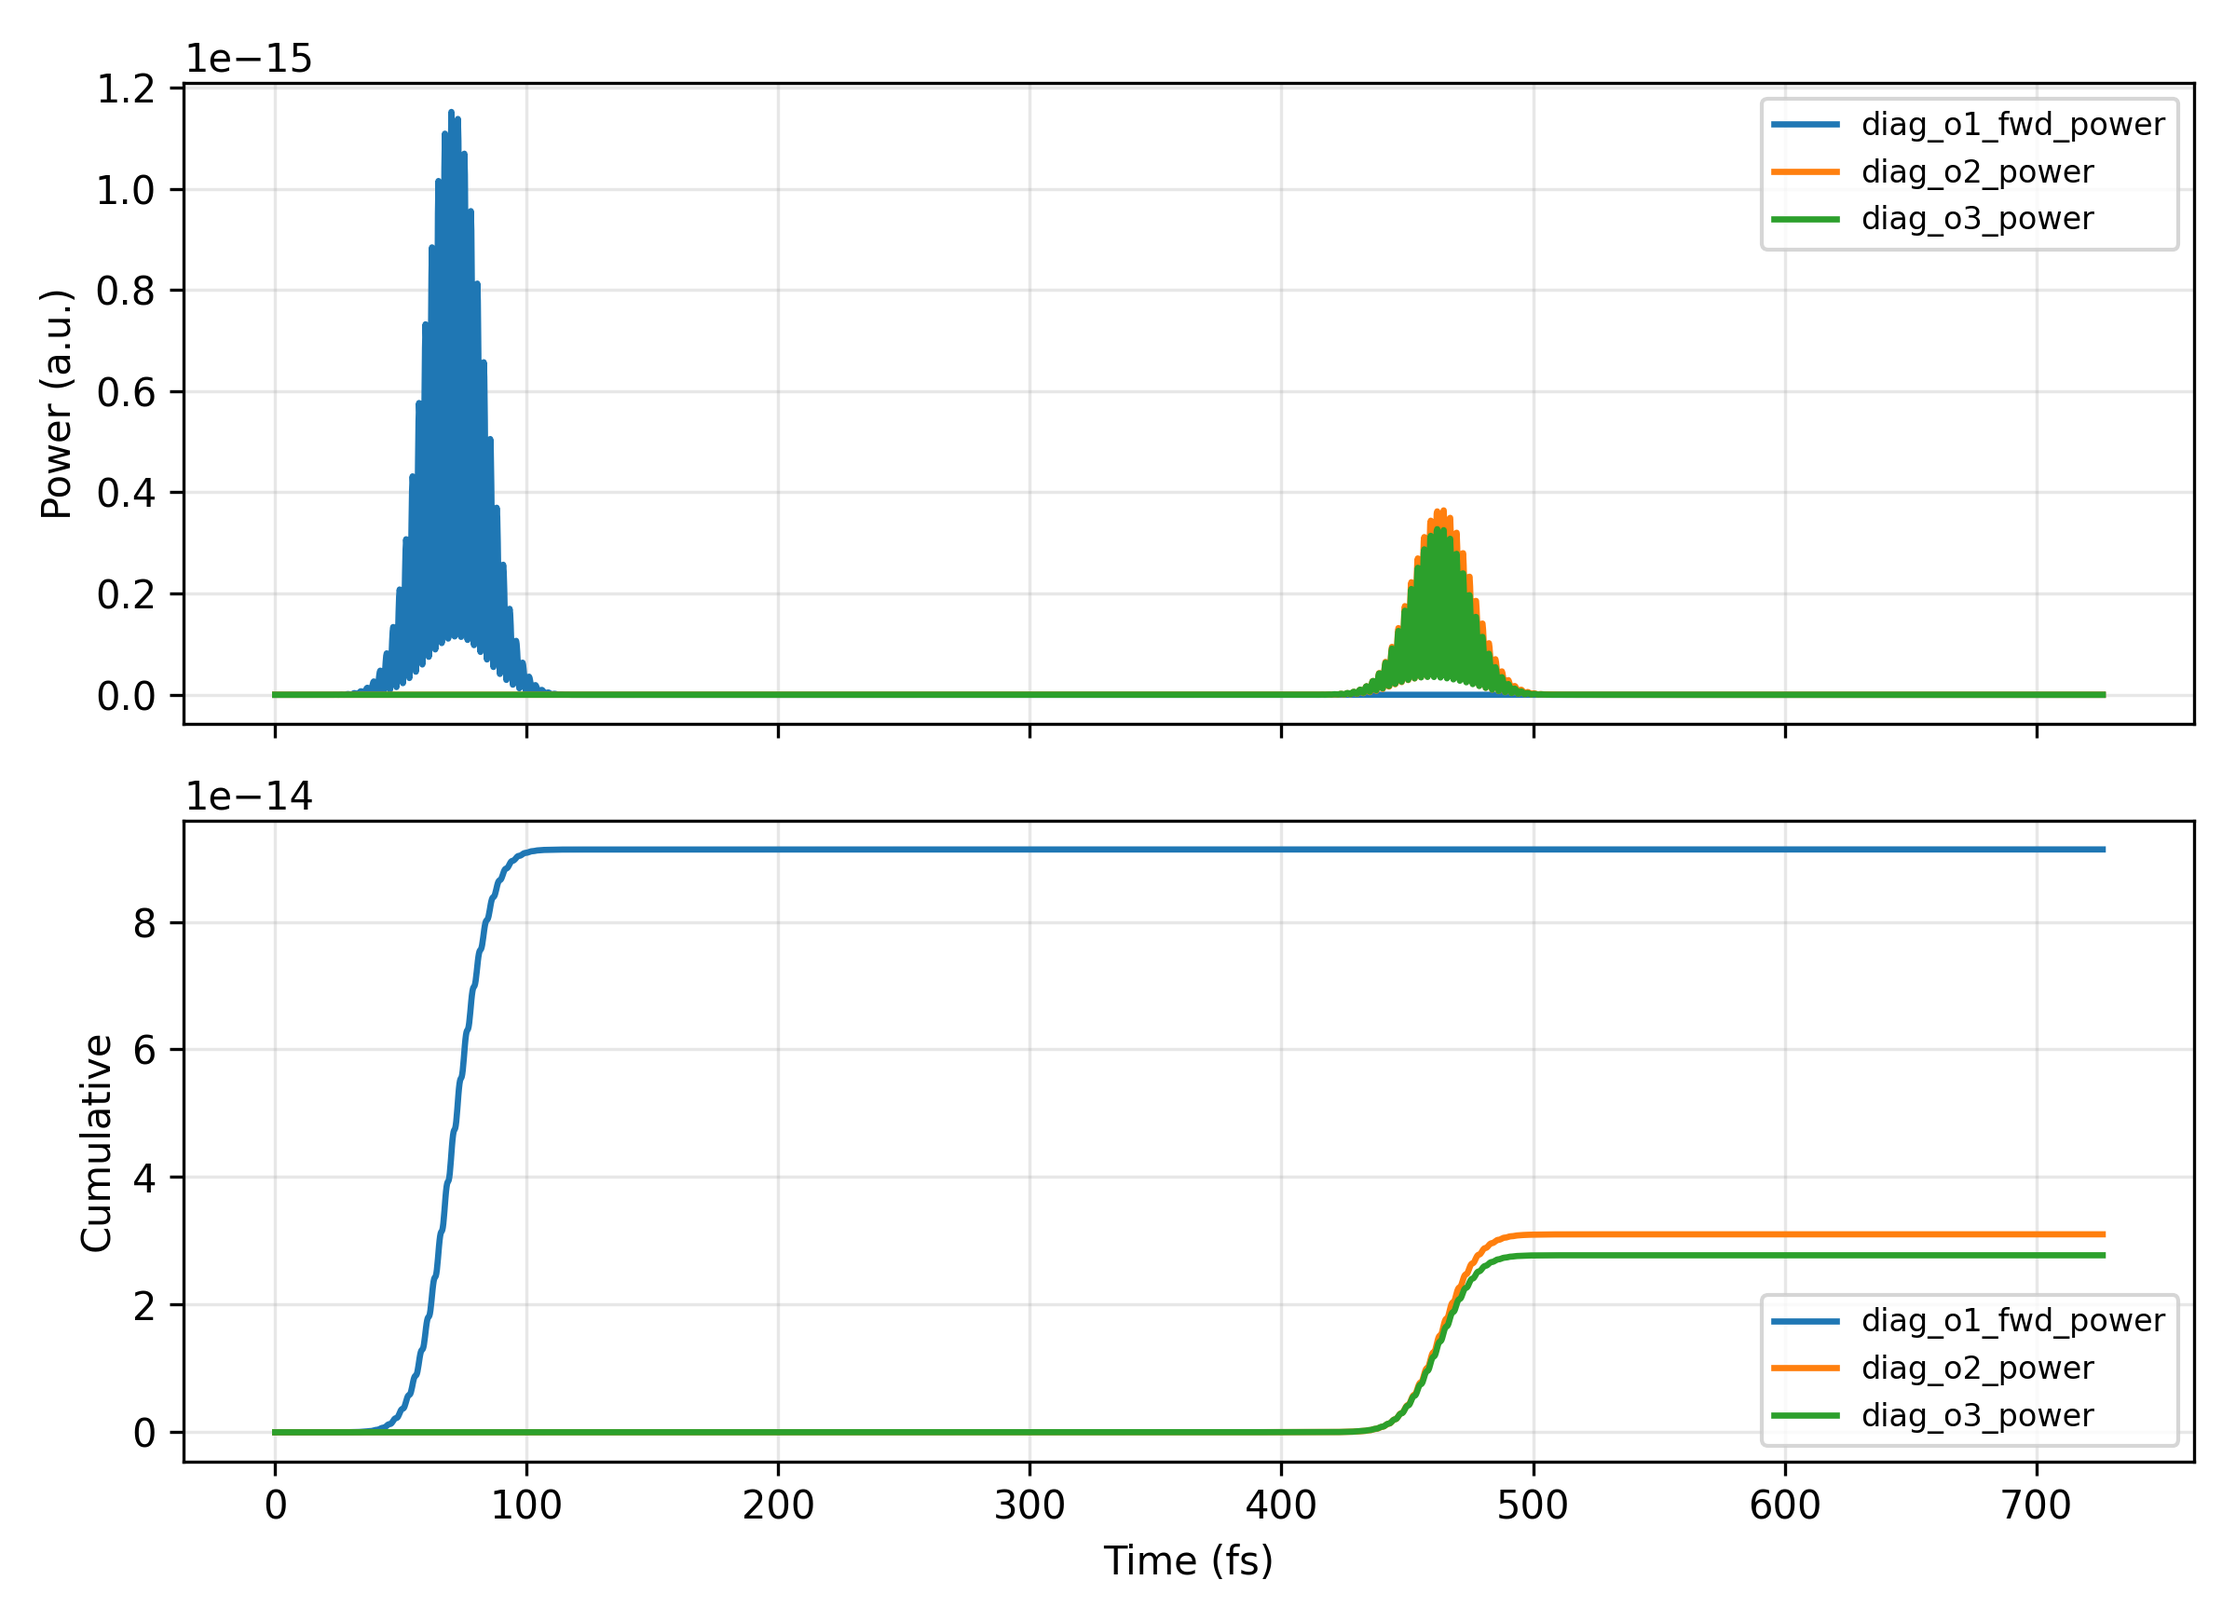
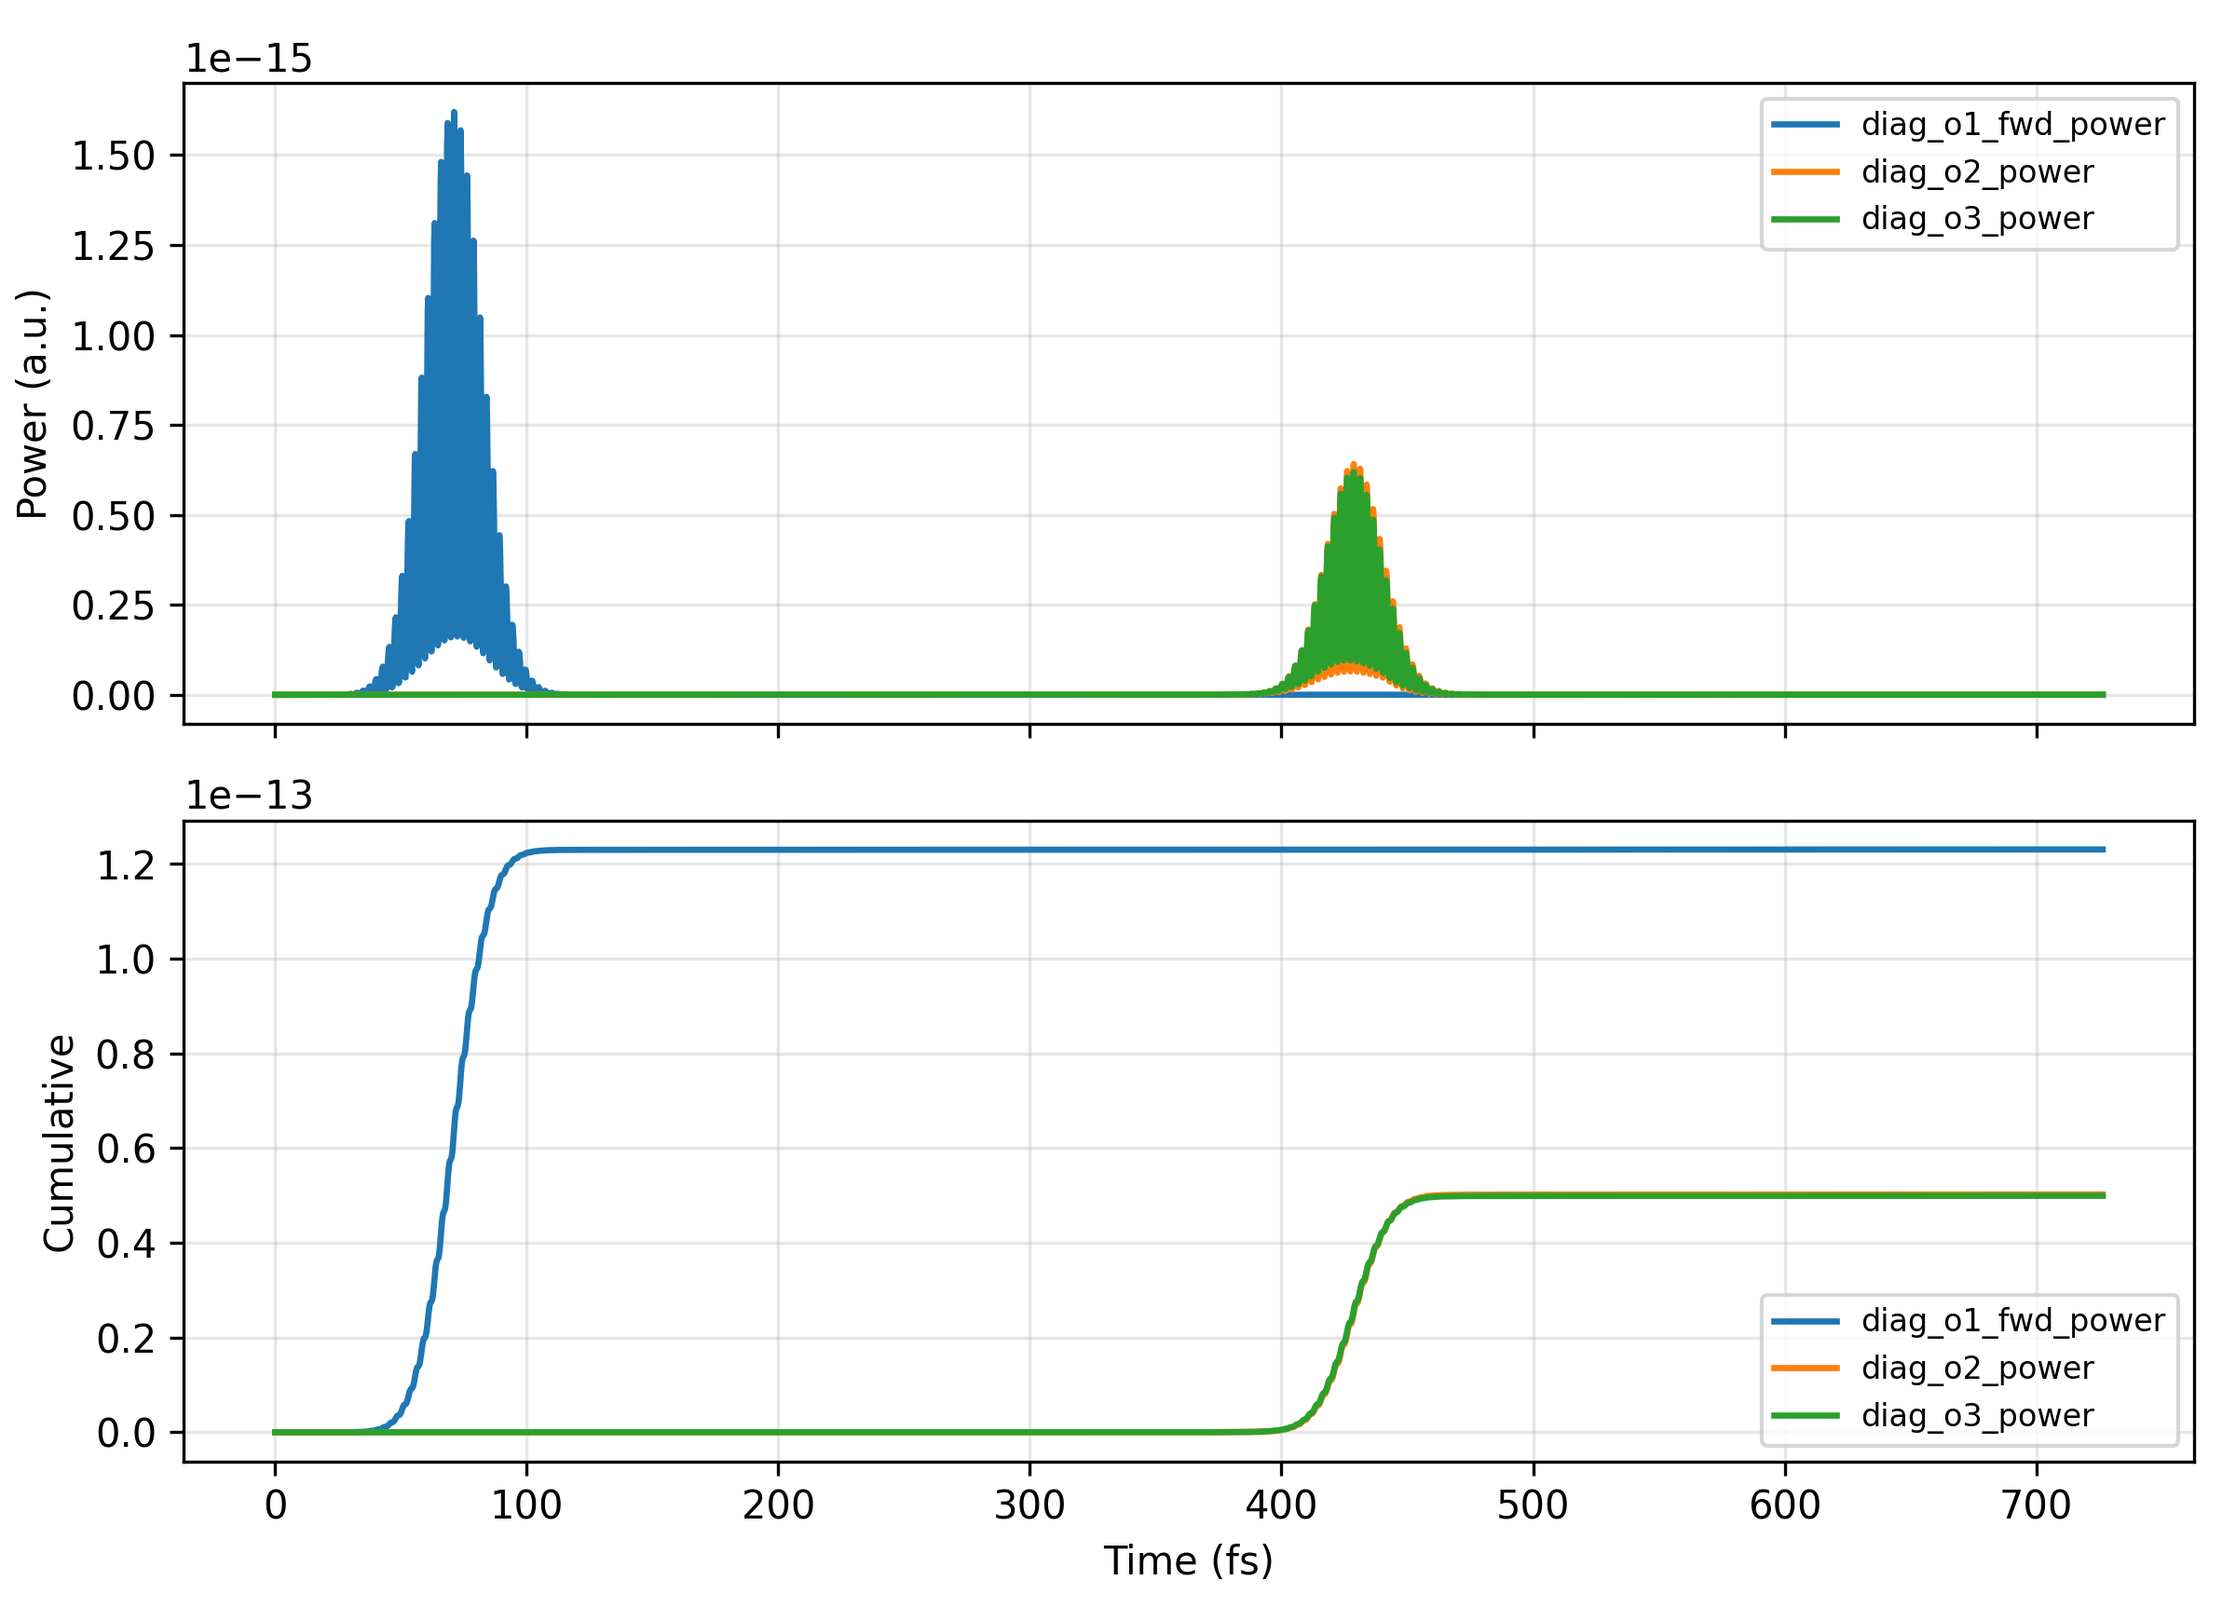
I'll be damned, it works.

diff --git a/examples/gdsf_to_sax_meep_style.py b/examples/gdsf_to_sax_meep_style.py
@@ -52,16 +52,19 @@ SHOW_FINAL = env_bool("BEAMZ_SHOW_FINAL", not FAST_MODE)
 DEBUG_DFT = env_bool("BEAMZ_DEBUG_DFT", False)
 # Keep S-parameters tied to this single device run (no extra normalization runs).
 CALIBRATE_PORT_SCALE = False
-FLUX_RENORMALIZE_S = env_bool("BEAMZ_FLUX_RENORMALIZE_S", False)
-USE_FLUX_MAG_FOR_S = True
 GLOBAL_DFT_WINDOW = env_bool("BEAMZ_GLOBAL_DFT_WINDOW", False)
 ENFORCE_PASSIVITY = env_bool("BEAMZ_ENFORCE_PASSIVITY", True)
 PASSIVITY_TOL = env_float("BEAMZ_PASSIVITY_TOL", 1e-3)
 PASSIVITY_USE_PROXY_CAP = env_bool("BEAMZ_PASSIVITY_USE_PROXY_CAP", True)
-POLARIZATION = str(os.getenv("BEAMZ_POLARIZATION", "tm")).strip().lower()
+POLARIZATION = str(os.getenv("BEAMZ_POLARIZATION", "te")).strip().lower()
 if POLARIZATION not in {"te", "tm"}:
     raise ValueError(
         f"Unsupported BEAMZ_POLARIZATION={POLARIZATION!r}; use 'te' or 'tm'."
+    )
+if POLARIZATION == "tm":
+    print(
+        "[note] BEAMZ_POLARIZATION=tm selected; gdsfactory mmi1x2 is typically TE-optimized, "
+        "so higher radiation/splitting loss is expected."
     )
 
 PLOT_SOURCE_MODE = env_bool("BEAMZ_PLOT_SOURCE_MODE", True)
@@ -1856,78 +1859,11 @@ if CALIBRATE_PORT_SCALE:
     b_o2 = b_o2 / max(g_o2, 1e-18)
     b_o3 = b_o3 / max(g_o3, 1e-18)
 
-s_matrix = {
+s_guided = {
     ("o1", "o1"): safe_ratio(b_o1, a_incident),
     ("o2", "o1"): safe_ratio(b_o2, a_incident),
     ("o3", "o1"): safe_ratio(b_o3, a_incident),
 }
-
-# Flux-based magnitude correction: use directional real Poynting spectra for
-# physically meaningful |S|, keep modal phase from overlap coefficients.
-if USE_FLUX_MAG_FOR_S and incident_monitor_obj is not None:
-    try:
-        p_in = dft_directional_power_spectrum(incident_monitor_obj, src_in_dir)
-        p_r = dft_directional_power_spectrum(monitor_by_name["o1_ref"], src_out_dir)
-        p_2 = dft_directional_power_spectrum(monitor_by_name["o2"], out_dir["o2"])
-        p_3 = dft_directional_power_spectrum(monitor_by_name["o3"], out_dir["o3"])
-        n = min(len(p_in), len(p_r), len(p_2), len(p_3), len(freqs))
-        if n > 0:
-            pin = np.maximum(np.asarray(p_in[:n], dtype=float), 1e-30)
-            mag11 = np.sqrt(np.clip(np.asarray(p_r[:n], dtype=float) / pin, 0.0, np.inf))
-            mag21 = np.sqrt(np.clip(np.asarray(p_2[:n], dtype=float) / pin, 0.0, np.inf))
-            mag31 = np.sqrt(np.clip(np.asarray(p_3[:n], dtype=float) / pin, 0.0, np.inf))
-            s11 = np.asarray(s_matrix[("o1", "o1")], dtype=np.complex128)
-            s21 = np.asarray(s_matrix[("o2", "o1")], dtype=np.complex128)
-            s31 = np.asarray(s_matrix[("o3", "o1")], dtype=np.complex128)
-            s11[:n] = mag11 * np.exp(1j * np.angle(s11[:n]))
-            s21[:n] = mag21 * np.exp(1j * np.angle(s21[:n]))
-            s31[:n] = mag31 * np.exp(1j * np.angle(s31[:n]))
-            s_matrix[("o1", "o1")] = s11
-            s_matrix[("o2", "o1")] = s21
-            s_matrix[("o3", "o1")] = s31
-            i0_loc = int(np.argmin(np.abs((LIGHT_SPEED / freqs[:n]) / µm - (WL0 / µm))))
-            print(
-                "[flux-mag S] "
-                f"R={mag11[i0_loc]**2:.3f}, T2={mag21[i0_loc]**2:.3f}, "
-                f"T3={mag31[i0_loc]**2:.3f}, sum={mag11[i0_loc]**2 + mag21[i0_loc]**2 + mag31[i0_loc]**2:.3f}"
-            )
-    except Exception as exc:
-        print(f"[flux-mag S] skipped: {exc}")
-
-if "o1_fwd" in monitor_by_name:
-    try:
-        f_in = dft_signed_flux_spectrum(monitor_by_name["o1_fwd"], axis=src["direction"][1])
-        f_r = dft_signed_flux_spectrum(monitor_by_name["o1_ref"], axis=src["direction"][1])
-        f_2 = dft_signed_flux_spectrum(monitor_by_name["o2"], axis=ports["o2"]["direction"][1])
-        f_3 = dft_signed_flux_spectrum(monitor_by_name["o3"], axis=ports["o3"]["direction"][1])
-        n = min(len(f_in), len(f_r), len(f_2), len(f_3), len(freqs))
-        if n > 0:
-            fin = np.maximum(np.abs(f_in[:n]), 1e-18)
-            p2 = np.abs(f_2[:n])
-            p3 = np.abs(f_3[:n])
-            pref = np.abs(f_r[:n])
-            mag11 = np.sqrt(np.clip(pref / fin, 0.0, np.inf))
-            mag21 = np.sqrt(np.clip(p2 / fin, 0.0, np.inf))
-            mag31 = np.sqrt(np.clip(p3 / fin, 0.0, np.inf))
-            i0_loc = int(np.argmin(np.abs((LIGHT_SPEED / freqs[:n]) / µm - (WL0 / µm))))
-            print(
-                "[dft flux closure] "
-                f"R={mag11[i0_loc]**2:.3f}, T2={mag21[i0_loc]**2:.3f}, T3={mag31[i0_loc]**2:.3f}, "
-                f"sum={mag11[i0_loc]**2 + mag21[i0_loc]**2 + mag31[i0_loc]**2:.3f}"
-            )
-            if FLUX_RENORMALIZE_S:
-                s11 = np.asarray(s_matrix[("o1", "o1")], dtype=np.complex128)
-                s21 = np.asarray(s_matrix[("o2", "o1")], dtype=np.complex128)
-                s31 = np.asarray(s_matrix[("o3", "o1")], dtype=np.complex128)
-                s11[:n] = mag11 * np.exp(1j * np.angle(s11[:n]))
-                s21[:n] = mag21 * np.exp(1j * np.angle(s21[:n]))
-                s31[:n] = mag31 * np.exp(1j * np.angle(s31[:n]))
-                s_matrix[("o1", "o1")] = s11
-                s_matrix[("o2", "o1")] = s21
-                s_matrix[("o3", "o1")] = s31
-                print("[dft flux renorm] Applied magnitude renormalization to S-parameters.")
-    except Exception as exc:
-        print(f"[flux renorm] skipped: {exc}")
 
 min_incident_db = env_float("BEAMZ_MIN_INCIDENT_DB", -55.0)
 max_inc = float(np.max(np.abs(a_incident))) if a_incident.size else 0.0
@@ -1939,64 +1875,103 @@ print(
     f"min={np.min(np.abs(a_incident)):.3e}, "
     f"valid_bins={int(np.count_nonzero(valid))}/{len(valid)}"
 )
-for key in list(s_matrix.keys()):
-    s_matrix[key] = np.where(valid, s_matrix[key], 0.0 + 0.0j)
+for key in list(s_guided.keys()):
+    s_guided[key] = np.where(valid, s_guided[key], 0.0 + 0.0j)
 
-raw_power_sum = (
-    np.abs(np.asarray(s_matrix[("o1", "o1")])) ** 2
-    + np.abs(np.asarray(s_matrix[("o2", "o1")])) ** 2
-    + np.abs(np.asarray(s_matrix[("o3", "o1")])) ** 2
+guided_power_sum_raw = (
+    np.abs(np.asarray(s_guided[("o1", "o1")])) ** 2
+    + np.abs(np.asarray(s_guided[("o2", "o1")])) ** 2
+    + np.abs(np.asarray(s_guided[("o3", "o1")])) ** 2
 )
 if ENFORCE_PASSIVITY:
+    # Keep guided S physically bounded, independent of time-domain proxy monitors.
     power_cap = 1.0
-    if PASSIVITY_USE_PROXY_CAP:
-        power_cap = float(np.clip(passivity_proxy_cap, 0.0, 1.0))
-    over = valid & (raw_power_sum > (power_cap + float(PASSIVITY_TOL)))
+    over = valid & (guided_power_sum_raw > (power_cap + float(PASSIVITY_TOL)))
     n_over = int(np.count_nonzero(over))
     if n_over > 0:
-        scale = np.ones_like(raw_power_sum, dtype=float)
-        scale[over] = np.sqrt(power_cap / np.maximum(raw_power_sum[over], 1e-18))
-        s_matrix[("o1", "o1")] = np.asarray(s_matrix[("o1", "o1")]) * scale
-        s_matrix[("o2", "o1")] = np.asarray(s_matrix[("o2", "o1")]) * scale
-        s_matrix[("o3", "o1")] = np.asarray(s_matrix[("o3", "o1")]) * scale
+        scale = np.ones_like(guided_power_sum_raw, dtype=float)
+        scale[over] = np.sqrt(power_cap / np.maximum(guided_power_sum_raw[over], 1e-18))
+        s_guided[("o1", "o1")] = np.asarray(s_guided[("o1", "o1")]) * scale
+        s_guided[("o2", "o1")] = np.asarray(s_guided[("o2", "o1")]) * scale
+        s_guided[("o3", "o1")] = np.asarray(s_guided[("o3", "o1")]) * scale
         print(
-            f"[passivity projection] corrected {n_over}/{int(np.count_nonzero(valid))} bins "
-            f"(cap={power_cap:.3f}, tol={PASSIVITY_TOL:.1e})"
+            f"[guided passivity projection] corrected {n_over}/{int(np.count_nonzero(valid))} bins "
+            f"(cap=1.000, tol={PASSIVITY_TOL:.1e})"
         )
 
-s_sax = sax.sdict(s_matrix)
+s_sax = sax.sdict(s_guided)
 
-power_sum = (
+guided_power_sum = (
     np.abs(np.asarray(s_sax[("o1", "o1")])) ** 2
     + np.abs(np.asarray(s_sax[("o2", "o1")])) ** 2
     + np.abs(np.asarray(s_sax[("o3", "o1")])) ** 2
 )
-loss_est = 1.0 - power_sum
-power_sum = np.where(valid, power_sum, np.nan)
-loss_est = np.where(valid, loss_est, np.nan)
+guided_loss_est = 1.0 - guided_power_sum
+guided_power_sum = np.where(valid, guided_power_sum, np.nan)
+guided_loss_est = np.where(valid, guided_loss_est, np.nan)
+
+# Separate total-power (all modes/radiation through monitor planes) from guided S.
+flux_r = np.full(len(freqs), np.nan, dtype=float)
+flux_t2 = np.full(len(freqs), np.nan, dtype=float)
+flux_t3 = np.full(len(freqs), np.nan, dtype=float)
+if incident_monitor_obj is not None:
+    try:
+        p_in = dft_directional_power_spectrum(incident_monitor_obj, src_in_dir)
+        p_r = dft_directional_power_spectrum(monitor_by_name["o1_ref"], src_out_dir)
+        p_2 = dft_directional_power_spectrum(monitor_by_name["o2"], out_dir["o2"])
+        p_3 = dft_directional_power_spectrum(monitor_by_name["o3"], out_dir["o3"])
+        n_flux = min(len(p_in), len(p_r), len(p_2), len(p_3), len(freqs))
+        if n_flux > 0:
+            p_in = np.asarray(p_in[:n_flux], dtype=float)
+            p_r = np.asarray(p_r[:n_flux], dtype=float)
+            p_2 = np.asarray(p_2[:n_flux], dtype=float)
+            p_3 = np.asarray(p_3[:n_flux], dtype=float)
+            pin = np.maximum(p_in, 1e-30)
+            flux_r[:n_flux] = np.clip(p_r / pin, 0.0, np.inf)
+            flux_t2[:n_flux] = np.clip(p_2 / pin, 0.0, np.inf)
+            flux_t3[:n_flux] = np.clip(p_3 / pin, 0.0, np.inf)
+    except Exception as exc:
+        print(f"[total flux] skipped: {exc}")
+
+flux_power_sum = flux_r + flux_t2 + flux_t3
+flux_loss_est = 1.0 - flux_power_sum
+
 if np.any(valid):
-    ps_valid = power_sum[valid]
+    ps_valid = guided_power_sum[valid]
     wl_valid = wl_um[valid]
     worst_idx = int(np.argmax(ps_valid))
     over_count = int(np.count_nonzero(ps_valid > (1.0 + 1e-6)))
     print(
-        "Closure diagnostics: "
+        "Guided closure diagnostics: "
         f"min={np.min(ps_valid):.3f}, max={np.max(ps_valid):.3f}, "
         f"bins_over_1={over_count}/{ps_valid.size}, "
         f"worst_wl={wl_valid[worst_idx]:.4f}um"
     )
+if np.any(np.isfinite(flux_power_sum)):
+    flux_valid = np.isfinite(flux_power_sum)
+    ps_valid = flux_power_sum[flux_valid]
+    wl_valid = wl_um[flux_valid]
+    worst_idx = int(np.argmax(ps_valid))
+    print(
+        "Total flux closure diagnostics: "
+        f"min={np.min(ps_valid):.3f}, max={np.max(ps_valid):.3f}, "
+        f"worst_wl={wl_valid[worst_idx]:.4f}um"
+    )
 
 i0 = int(np.argmin(np.abs(wl_um - WL0 / µm)))
-print(f"|S11|^2+|S21|^2+|S31|^2 @ {WL0 / µm:.3f}um: {power_sum[i0]:.3f}")
-print(f"loss @ {WL0 / µm:.3f}um: {loss_est[i0]:.3f} (valid={bool(valid[i0])})")
+print(f"[guided] |S11|^2+|S21|^2+|S31|^2 @ {WL0 / µm:.3f}um: {guided_power_sum[i0]:.3f}")
+print(f"[guided] loss @ {WL0 / µm:.3f}um: {guided_loss_est[i0]:.3f} (valid={bool(valid[i0])})")
+if np.isfinite(flux_power_sum[i0]):
+    print(f"[total flux] R+T2+T3 @ {WL0 / µm:.3f}um: {flux_power_sum[i0]:.3f}")
+    print(f"[total flux] loss @ {WL0 / µm:.3f}um: {flux_loss_est[i0]:.3f}")
 for key in [("o1", "o1"), ("o2", "o1"), ("o3", "o1")]:
     s0 = np.asarray(s_sax[key])[i0]
     print(
-        f"S[{key[0]},{key[1]}] @ {WL0 / µm:.3f}um: |S|={np.abs(s0):.3f}, "
+        f"[guided] S[{key[0]},{key[1]}] @ {WL0 / µm:.3f}um: |S|={np.abs(s0):.3f}, "
         f"phase={np.angle(s0):.3f} rad"
     )
 
-# Final diagnostics figure: raw samples only + closure diagnostics.
+# Final diagnostics figure: guided S and separate total-flux closure.
 fig, (ax_s, ax_c) = plt.subplots(2, 1, figsize=(6.0, 5.2), dpi=250, sharex=True)
 for key, color in [
     (("o1", "o1"), "black"),
@@ -2012,10 +1987,13 @@ ax_s.set_ylabel("Magnitude (dB)")
 ax_s.set_ylim(-45, 1)
 ax_s.grid(alpha=0.3)
 ax_s.legend(loc="best")
-ax_s.set_title("GDSFactory MMI1x2 (3D Compiled DFT, Raw Bins)")
+ax_s.set_title("GDSFactory MMI1x2 (3D Guided S + Total Flux Split)")
 
-ax_c.plot(wl_um, power_sum, "o-", ms=3.0, lw=1.8, color="tab:green", label="closure: |S11|^2+|S21|^2+|S31|^2")
-ax_c.plot(wl_um, loss_est, "o-", ms=3.0, lw=1.8, color="tab:red", label="1 - closure")
+ax_c.plot(wl_um, guided_power_sum, "o-", ms=3.0, lw=1.8, color="tab:green", label="guided closure")
+ax_c.plot(wl_um, guided_loss_est, "o-", ms=3.0, lw=1.8, color="tab:red", label="guided 1 - closure")
+if np.any(np.isfinite(flux_power_sum)):
+    ax_c.plot(wl_um, flux_power_sum, "s--", ms=2.7, lw=1.3, color="tab:purple", label="total flux closure")
+    ax_c.plot(wl_um, flux_loss_est, "s--", ms=2.7, lw=1.3, color="tab:orange", label="total flux 1 - closure")
 ax_c.axhline(1.0, color="k", lw=1.0, ls="--", alpha=0.6)
 ax_c.set_xlabel("Wavelength (um)")
 ax_c.set_ylabel("Power")
